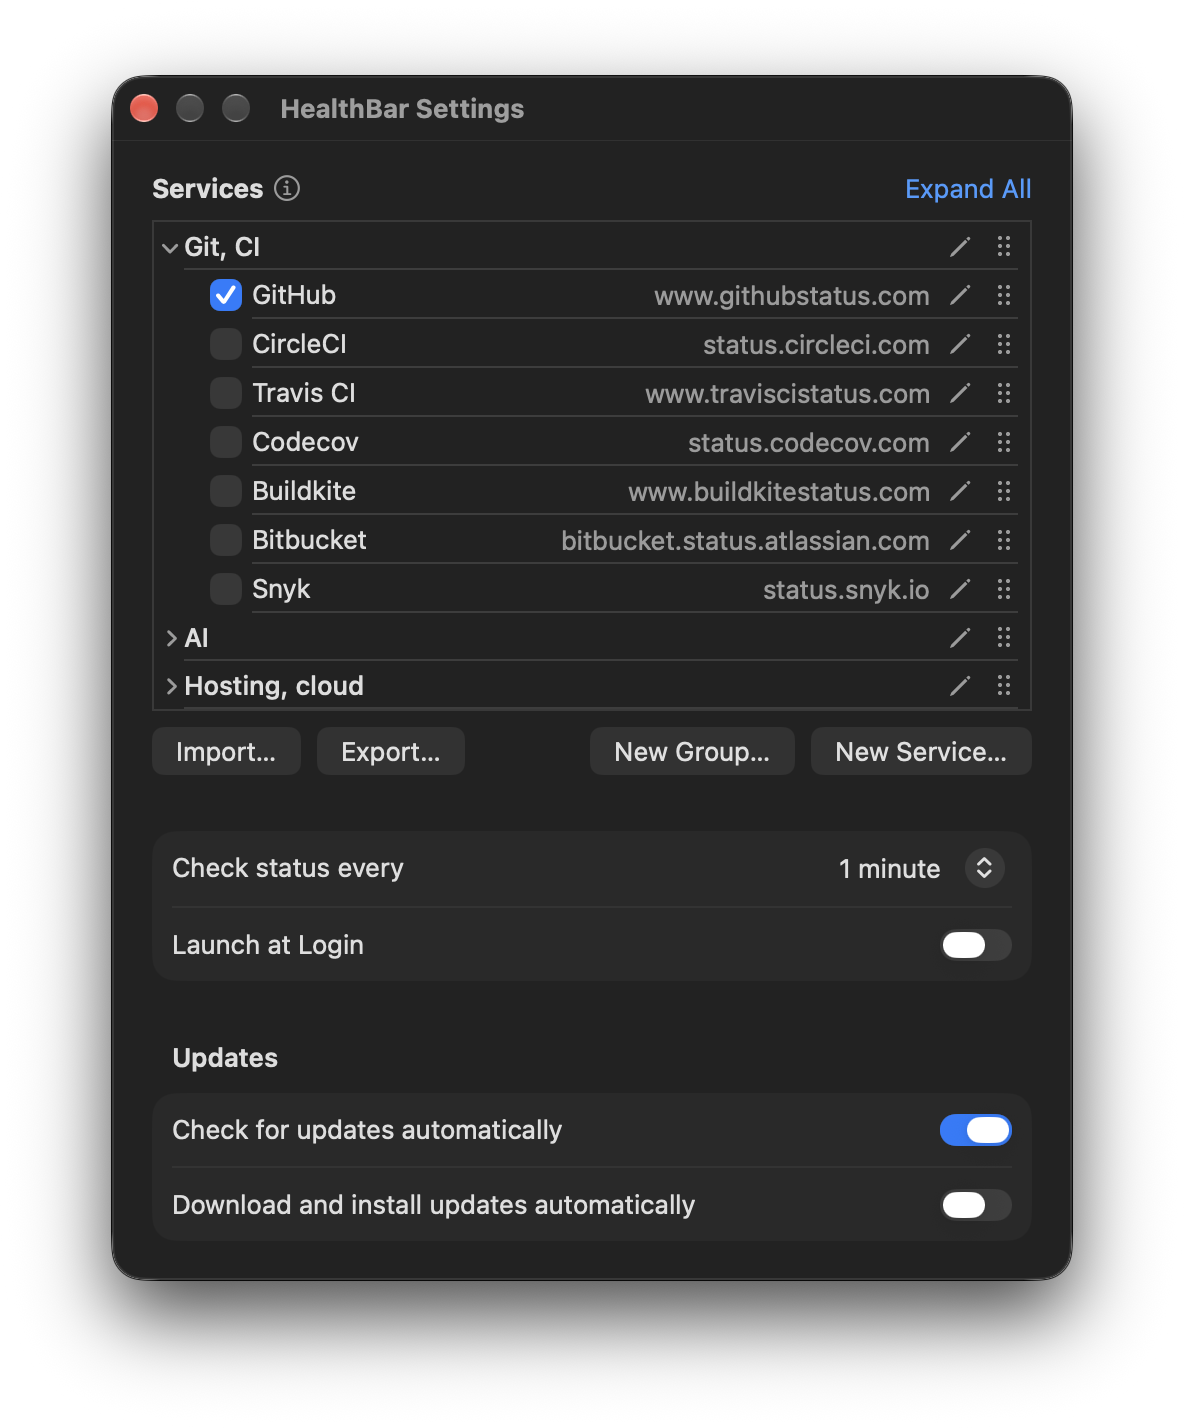
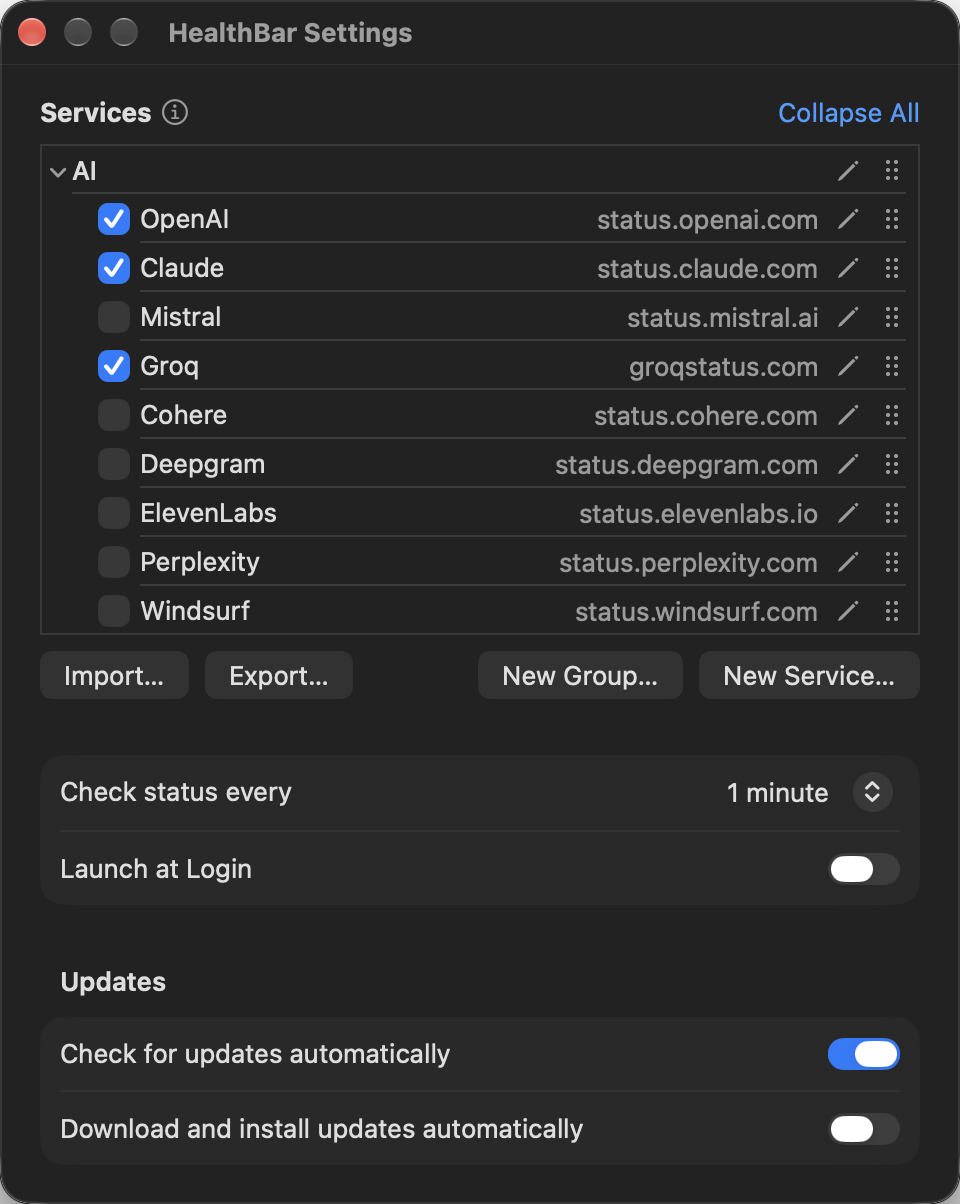
docs(readme): retake screenshots, crop to window, show 1:1

diff --git a/README.md b/README.md
@@ -2,7 +2,7 @@
 
 macOS menu bar app showing the status of the services you depend on (GitHub, OpenAI, Claude, Vercel, Supabase by default).
 
-<img src="assets/screenshot.png" width="479" alt="HealthBar menu: each service with its status and a 30-day uptime strip">
+<img src="assets/screenshot.png" width="314" alt="HealthBar menu: each service with its status and a 30-day uptime strip">
 
 ## Install
 
@@ -34,7 +34,7 @@ In the menu each service carries its own glyph (`design/status-icons.svg`).
 
 ## Settings
 
-<img src="assets/settings.png" width="592" alt="HealthBar Settings: services in groups with checkboxes, the poll interval and Launch at Login">
+<img src="assets/settings.png" width="480" alt="HealthBar Settings: services in groups with checkboxes, the poll interval and Launch at Login">
 
 Menu → Settings… (⌘,); Escape closes it. The window can be made taller; it remembers its position and which groups are folded. Menu → About HealthBar shows the version.
 
